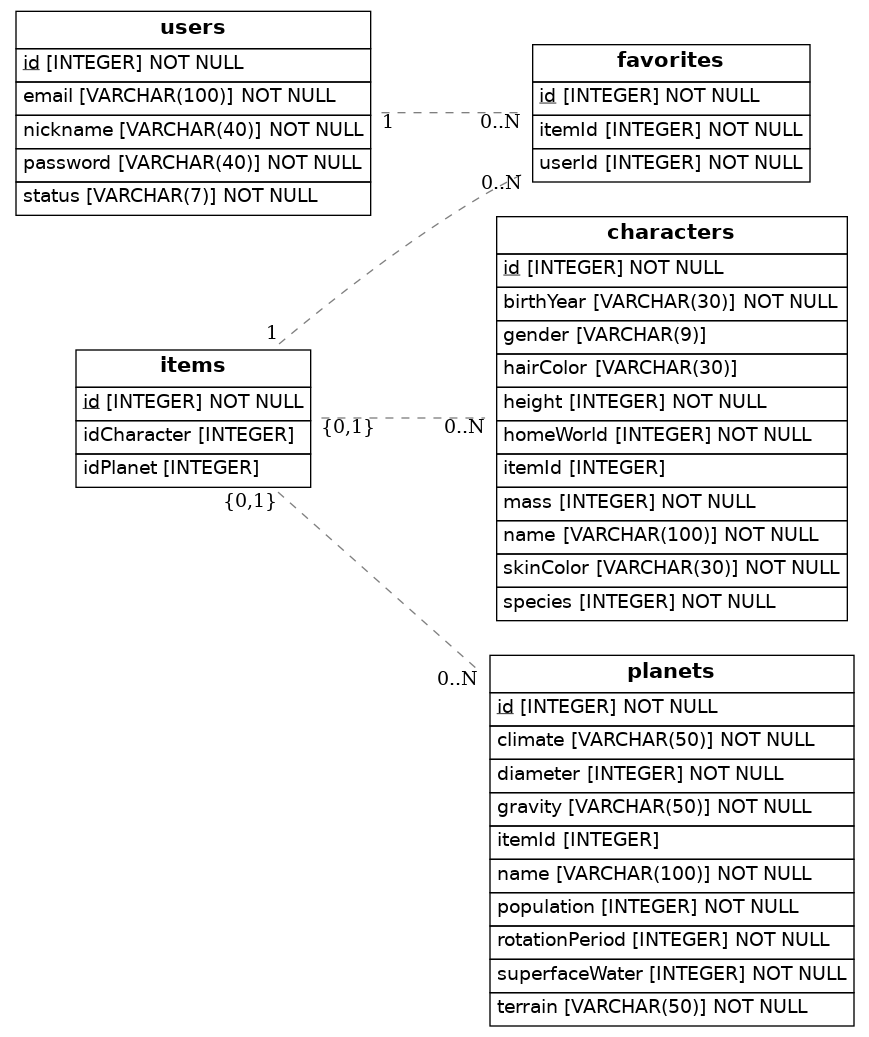
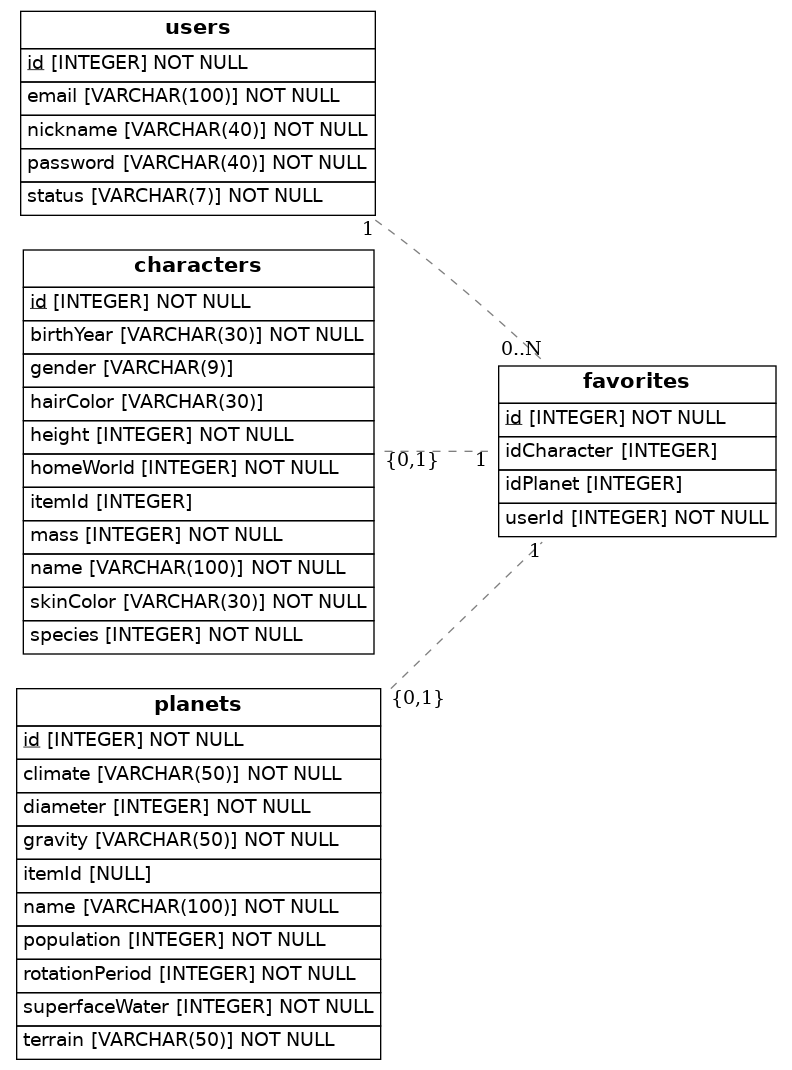
ADD: solucion 1

Changed region(s): [[0.0, 0.0, 1.0, 0.6172], [0.0, 0.6172, 1.0, 1.0], [0.5455, 0.0309, 0.9394, 0.1851]]

diff --git a/src/models.py b/src/models.py
@@ -42,17 +42,17 @@ class ItemType(enum.Enum):
     character = 0
     planet = 1
 
-class Item(Base):
-    __tablename__ = 'items'
+# class Item(Base):
+#     __tablename__ = 'items'
 
-    # attributes
-    id = Column('id', Integer, primary_key=True)
-    idCharacter = Column('idCharacter', Integer, unique=True)
-    idPlanet = Column('idPlanet', Integer, unique=True)
+#     # attributes
+#     id = Column('id', Integer, primary_key=True)
+#     idCharacter = Column('idCharacter', Integer, unique=True)
+#     idPlanet = Column('idPlanet', Integer, unique=True)
 
-    # relationship
-    characters = relationship('Character', back_populates='items')
-    planets = relationship('Planet', back_populates='items')
+#     # relationship
+#     characters = relationship('Character', back_populates='items')
+#     planets = relationship('Planet', back_populates='items')
 
 class Character(Base):
     __tablename__ = 'characters'
@@ -97,11 +97,18 @@ class Favorite(Base):
     # attributes
     id = Column('id', Integer, primary_key=True)
     userId = Column('userId', ForeignKey('users.id'), nullable=False)
-    itemId = Column('itemId', ForeignKey('items.id'), nullable=False)
+    # itemId = Column('itemId', ForeignKey('items.id'), nullable=False)
+    idCharacter = Column('idCharacter', Integer, ForeignKey('characters.id'), unique=True)
+    idPlanet = Column('idPlanet', Integer, ForeignKey('planets.id'), unique=True)
+
+#     # relationship
+    characters = relationship('Character', back_populates='items')
+    planets = relationship('Planet', back_populates='items')
+
 
     # relationships
     user = relationship('User', back_populates='favorites')
-    item = relationship('Item', back_populates='favorites')
+    # item = relationship('Item', back_populates='favorites')
 
 
 ## Draw from SQLAlchemy base
